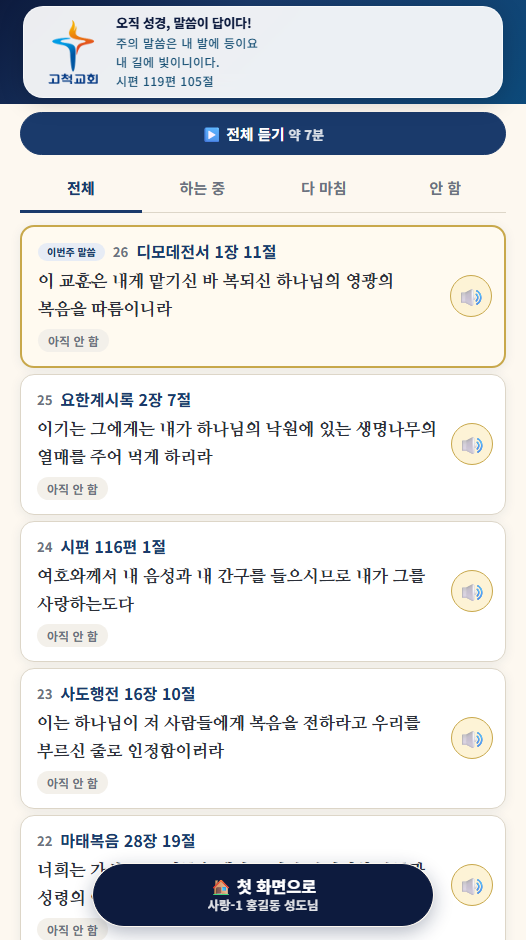
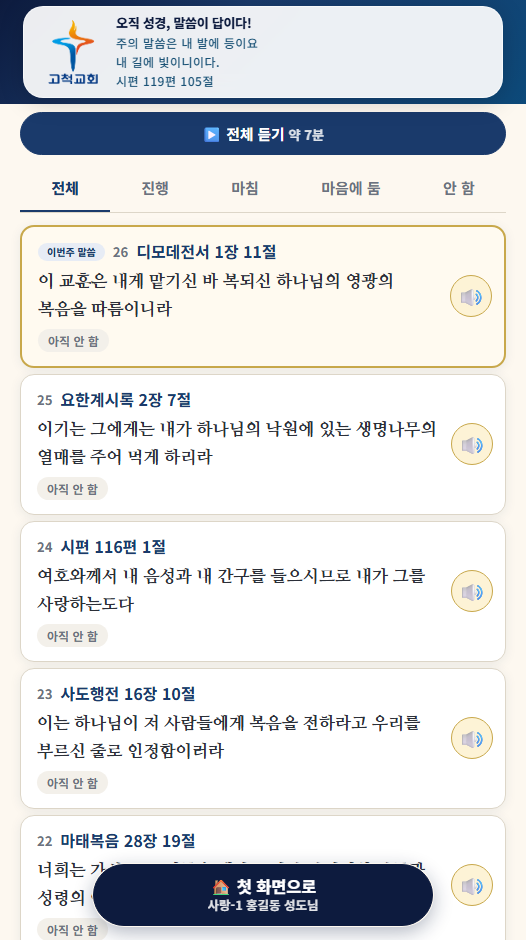
feat(말씀 목록): 거르기 칸을 외우는 걸음 사다리로 — 전체·진행·마침·마음에 둠·안 함 · 마음에 둔 구절은 힌트로 — v3.582
- 칸: 하는 중 → 진행 · 다 마침 → 마침 · 「마음에 둠」 칸을 더함(친구). 한 구절은 한 칸에만 든다 —
  마음에 둔 구절은 「마침」에서 뺀다(예전 첫 화면 네 칸과 같은 나눔). 「마침」이 비었는데 마음에 둔 구절이 있으면
  「마친 말씀은 모두 「마음에 둠」에 있어요」(「아직 없음」과 뭉개지 않는다).
- 마음에 둔 구절은 어느 칸에서나 본문 대신 첫 낱말 힌트(담당자가 넣은 「주의 OOO O」 — 떠올려 보게).
  힌트가 비었거나 영어 모드면 firstCharHint(본문).
- 칸 글은 꺾지 않고 글 길이만큼 나눈다 · 좁은 폰에 큰 글씨면 「마음둠」(아주 크게 ≤400px · 크게 ≤340px —
  칸 사이가 붙어 「마음에 둠 안 함」으로 이어 읽혔다).
- 도움말 · 사용 설명서 목록 사진 · 디자인 개편 문서 함께.
- 폭 320~430 × 글씨 셋 × 개발·운영·영어 × 어두운 모드 카드 2,160장 넘침 0 · 칸 다섯 거르기 맞음 · 힌트는 마음에 둔 구절에만.
- bump 20261012j

diff --git a/app.js b/app.js
@@ -6,7 +6,7 @@
 
 // 이 파일의 빌드 번호 — index.html의 app.js?v= 와 반드시 같아야 한다.
 // (tools/bump.py가 둘을 함께 올린다)
-const APP_BUILD = "20261012i";
+const APP_BUILD = "20261012j";
 
 // 배포 직후 CDN이 아직 옛 app.js를 내보내면, 브라우저는 그 옛 내용을 '새 주소'
 // 아래 캐시해 버린다. 주소가 다시 바뀌기 전까지(최대 10분) 옛 화면이 남는 이유다.
@@ -1968,17 +1968,23 @@ const STATUS_LABEL = {
   3: { cls: "status-done", text: "다 마침" },
 };
 // 말씀 목록 보기 거르기(2026-10-12 · 디자인 시안 B) — 같은 세션 안에서는 화면을 다시 그려도 고른 것이 남는다.
+// 2026-10-12 친구 — 칸은 외우는 걸음을 따라 「진행 → 마침 → 마음에 둠」 사다리로. **한 구절은 한 칸에만** 든다
+//   (예전 첫 화면 네 칸 「마음에 둠 · 암송 · 진행중 · 미시도」와 같은 나눔 — 마음에 둔 구절은 「마침」에서 뺀다).
+//   칸 이름은 짧게 — 큰 글씨·좁은 폰에서 「아직 안 / 함」으로 꺾였다(카드 칩은 「아직 안 함」 · 「1단계 마침」 그대로).
 let verseListFilter = "all";
 const VL_FILTERS = [
   { k: "all", label: "전체" },
-  { k: "doing", label: "하는 중" },     // 1·2단계를 마침
-  { k: "done", label: "다 마침" },      // 3단계까지 마침
-  { k: "none", label: "안 함" },        // 칸 이름은 짧게 — 큰 글씨·좁은 폰에서 「아직 안 / 함」으로 꺾였다(카드 칩은 「아직 안 함」)
+  { k: "doing", label: "진행" },        // 1·2단계를 마침
+  { k: "done", label: "마침" },         // 3단계까지 마침 · 아직 마음에 두지 않음
+  { k: "heart", label: "마음에 둠", short: "마음둠" },   // 「이 말씀을 내 마음에 두었나이다」를 체크함 · 좁은 폰·큰 글씨에선 「마음둠」(style.css .vt-short)
+  { k: "none", label: "안 함" },        // 1단계도 아직
 ];
-function vlKind(stage) { return stage >= 3 ? "done" : stage > 0 ? "doing" : "none"; }
+function vlKind(stage, hearted) { return hearted ? "heart" : stage >= 3 ? "done" : stage > 0 ? "doing" : "none"; }
 const VL_EMPTY = {
-  doing: "지금 하는 중인 말씀이 없어요.",
-  done: "아직 다 마친 말씀이 없어요.<br>한 말씀씩 천천히 외워 보세요.",
+  doing: "지금 진행 중인 말씀이 없어요.",
+  done: "아직 마친 말씀이 없어요.<br>한 말씀씩 천천히 외워 보세요.",
+  doneAllHeart: "마친 말씀은 모두 「마음에 둠」에 있어요 👑",
+  heart: "아직 마음에 둔 말씀이 없어요.<br>3단계 화면의 「이 말씀을 내 마음에 두었나이다」를<br>체크하면 여기에 모여요.",
   none: "모든 말씀을 시작하셨어요 👏",
 };
 
@@ -5445,11 +5451,11 @@ function renderVerseList() {
   const playItems = verseItemsFor(playOrder);
   const playDur = albumDurText(playItems);
 
-  // 보기 거르기 — 전체 · 하는 중 · 다 마침 · 아직 안 함(2026-10-12 · 시안 B).
+  // 보기 거르기 — 전체 · 진행 · 마침 · 마음에 둠 · 안 함(2026-10-12 · 시안 B · VL_FILTERS).
   //   ⚠ 칸에 수를 달지 않는다 — 첫 화면에서 전체 수를 뺀 것(같은 날 친구 ②안)과 같은 까닭이다.
-  //      「아직 안 함 39」는 새로 오신 분께 다시 「아직 한참」으로 읽힌다.
+  //      「안 함 39」는 새로 오신 분께 다시 「아직 한참」으로 읽힌다.
   const tabsHtml = `<div class="vl-tabs" role="tablist" aria-label="말씀 목록 보기">${VL_FILTERS.map((f) =>
-    `<button type="button" role="tab" class="vl-tab${verseListFilter === f.k ? " on" : ""}" data-f="${f.k}" aria-selected="${verseListFilter === f.k}">${f.label}</button>`).join("")}</div>`;
+    `<button type="button" role="tab" class="vl-tab${verseListFilter === f.k ? " on" : ""}" data-f="${f.k}" aria-selected="${verseListFilter === f.k}">${f.short ? `<span class="vt-long">${f.label}</span><span class="vt-short">${f.short}</span>` : f.label}</button>`).join("")}</div>`;
 
   appEl.innerHTML = `
     ${verses.length ? `<div class="rank-filter album-play vl-play">
@@ -5477,8 +5483,12 @@ function renderVerseList() {
   const heartMap = loadHearted();
 
   const shown = [...verses].reverse()
-    .filter((v) => verseListFilter === "all" || vlKind(getPassedStage(v.no)) === verseListFilter);
-  if (!shown.length && verses.length) listEl.innerHTML = `<p class="vl-empty">${VL_EMPTY[verseListFilter] || ""}</p>`;
+    .filter((v) => verseListFilter === "all" || vlKind(getPassedStage(v.no), !!heartMap[v.no]) === verseListFilter);
+  if (!shown.length && verses.length) {
+    // 「마침」이 빈 까닭이 「아직 없음」인지 「모두 마음에 둠으로 옮겨 감」인지 가른다 — 둘을 한 말로 뭉개면 거짓이 된다.
+    const key = verseListFilter === "done" && verses.some((v) => heartMap[v.no] && getPassedStage(v.no) >= 3) ? "doneAllHeart" : verseListFilter;
+    listEl.innerHTML = `<p class="vl-empty">${VL_EMPTY[key] || ""}</p>`;
+  }
 
   shown.forEach((v) => {
     const passed = getPassedStage(v.no);
@@ -5486,13 +5496,18 @@ function renderVerseList() {
     const isWeekly = v.no === weeklyNo;
     const isHeart = !!heartMap[v.no];
     const ref = verseRefFull(v);
+    // 마음에 둔 구절은 본문 대신 첫 낱말 힌트(담당자가 넣은 「주의 OOO O」) — 어느 칸에서나(2026-10-12 친구).
+    //   다 외운 말씀이니 목록에서 떠올려 보게 한다. 힌트가 비었거나 영어 모드면(힌트는 한국어다)
+    //   앨범 「첫 글자만」과 같은 firstCharHint 로 본문에서 만든다.
+    const text = verseText(v) || "";
+    const body = isHeart ? (isEnMode(v) || !v.hintText ? firstCharHint(text) : v.hintText) : text;
 
     const card = document.createElement("div");
     card.className = `verse-card vl-card ${status.cls}${isWeekly ? " weekly-verse" : ""}${isHeart ? " hearted-verse" : ""}`;
     card.dataset.no = v.no;   // 재생 중인 카드를 짚기 위해
     // 시안 B(2026-10-12 친구 결정) — 구절 이름을 풀어 쓰고(「살전 5:16-18」 → 「데살로니가전서 5장 16-18절」)
     //   본문을 두 줄까지 보인다. 새로 오신 분이 「어떤 말씀인지」 바로 알게.
-    //   ⚠ 그래서 담당자가 넣는 「힌트」(주의 OOO O)는 이제 목록에 안 나온다 — 친구가 고른 것이다(본문 전체).
+    //   담당자가 넣는 「힌트」(주의 OOO O)는 마음에 둔 구절에만 본문 대신 나온다(위 body).
     //   ⚠ 전에는 한 줄에 번호·이름(nowrap)·힌트·상태·🔊 를 늘어놓아 좁은 폰·큰 글씨·긴 이름에서 🔊 와 상태가
     //      카드 밖으로 밀려났다. 이제 이름·본문이 줄을 바꾸고 상태는 아래 줄이라 넘치지 않는다.
     //   클래스 이름 .verse-card · .verse-ref · .verse-status[data-no] 는 그대로 — applyVerseCounts(「· N회」)와
@@ -5504,7 +5519,7 @@ function renderVerseList() {
           <span class="vl-no">${v.no}</span>
           <span class="verse-ref">${ref}</span>
         </div>
-        <div class="vl-text">${verseText(v) || ""}</div>
+        <div class="vl-text${isHeart ? " vl-hint" : ""}">${body}</div>
         <div class="vl-state">
           <span class="verse-status ${status.cls}" data-no="${v.no}" data-base="${status.text}">${status.text}</span>
           ${isHeart ? `<span class="heart-ribbon">👑 마음에 둠</span>` : ""}
@@ -8904,7 +8919,7 @@ function renderHelp(onClose) {
 
         <section class="help-section">
           <h3>🏷 내 기록 & 진행 표시</h3>
-          <p>첫 화면 위쪽에 <b>마친 구절 수</b>가 보여요. 말씀 목록 카드에는 <b>아직 안 함 · 1단계 마침 · 2단계 마침 · 다 마침</b>(+ 암송 횟수)이 보여요. 목록 위 <b>전체 · 하는 중 · 다 마침 · 안 함</b>을 누르면 그것만 모아 볼 수 있어요. 3단계를 마친 말씀은 <b>📖 나의 말씀 앨범</b>에 모여요.</p>
+          <p>첫 화면 위쪽에 <b>마친 구절 수</b>가 보여요. 말씀 목록 카드에는 <b>아직 안 함 · 1단계 마침 · 2단계 마침 · 다 마침</b>(+ 암송 횟수)이 보여요. 목록 위 <b>전체 · 진행 · 마침 · 마음에 둠 · 안 함</b>을 누르면 그것만 모아 볼 수 있어요. 마음에 둔 말씀은 본문 대신 <b>첫 낱말 힌트</b>로 보여요 — 떠올려 보세요. 3단계를 마친 말씀은 <b>📖 나의 말씀 앨범</b>에 모여요.</p>
         </section>
 
         <section class="help-section">

diff --git a/style.css b/style.css
@@ -5880,15 +5880,29 @@ body:has(#update-banner) .ps-wrap.ps-home{
    ⚠ 클래스 이름 .verse-card · .verse-ref · .verse-status 는 그대로 쓴다 — app.js 의 applyVerseCounts(「· N회」)와
       albumPlayFocus(재생 중 .playing)가 이 이름으로 카드를 찾는다. 이 덩이는 위쪽 .verse-* · .card-listen 규칙들보다
       뒤에 있어야 한다(같은 특이도를 덮는다). */
+/* 칸 다섯(전체 · 진행 · 마침 · 마음에 둠 · 안 함) — 글 길이가 달라 같은 폭으로 나누지 않고 글만큼 나눈다.
+   ⚠ 칸 글은 꺾지 않는다(nowrap) — 「마음에 / 둠」으로 꺾이면 두 칸처럼 읽힌다. 아주 좁으면 옆으로 민다. */
 .vl-tabs {
-  display: grid; grid-template-columns: repeat(4, minmax(0, 1fr));
+  display: flex; overflow-x: auto; scrollbar-width: none;
   margin: 0 0 12px; border-bottom: 1px solid var(--border);
 }
+.vl-tabs::-webkit-scrollbar { display: none; }
+/* 짧은 이름 — 좁은 폰에 큰 글씨면 칸 사이가 붙어 「마음에 둠 안 함」(= 마음에 안 둠?)으로 이어 읽혔다(2026-10-12).
+   그때만 「마음둠」(친구). 숨긴 쪽(display:none)은 단추 이름(읽어 주기)에서도 빠진다. */
+.vl-tab .vt-short { display: none; }
+@media (max-width: 400px) {
+  html[data-fs="xl"] .vl-tab .vt-long { display: none; }
+  html[data-fs="xl"] .vl-tab .vt-short { display: inline; }
+}
+@media (max-width: 340px) {
+  html[data-fs="lg"] .vl-tab .vt-long { display: none; }
+  html[data-fs="lg"] .vl-tab .vt-short { display: inline; }
+}
 .vl-tab {
-  min-height: 46px; padding: 0 2px; margin-bottom: -1px;
+  flex: 1 0 auto; min-height: 46px; padding: 0 6px; margin-bottom: -1px;
   border: 0; border-bottom: 3px solid transparent; background: none;
   color: var(--gray); font-family: inherit; font-size: 15px; font-weight: 600; line-height: 1.2;
-  word-break: keep-all; cursor: pointer;
+  white-space: nowrap; cursor: pointer;
 }
 .vl-tab.on { color: var(--navy); border-bottom-color: var(--navy); font-weight: 800; }
 .dark .vl-tab.on { color: #cdd9f2; border-bottom-color: #cdd9f2; }
@@ -5919,6 +5933,8 @@ html[data-fs="xl"] .vl-tab { font-size: 19px; }
 .vl-card .card-listen { align-self: center; }
 .vl-empty { text-align: center; color: var(--gray); font-size: 15px; line-height: 1.7; padding: 28px 8px; }
 .dark .vl-text { color: #e6e9ef; }
+/* 마음에 둔 구절의 첫 낱말 힌트(「주의 OOO O」) — 가린 칸(O)이 붙어 보이지 않게 조금 띄운다 */
+.vl-text.vl-hint { letter-spacing: .06em; }
 html[data-fs="lg"] .vl-card .verse-ref { font-size: 18px; }
 html[data-fs="xl"] .vl-card .verse-ref { font-size: 21px; }
 html[data-fs="lg"] .vl-text { font-size: 19px; }

diff --git a/index.html b/index.html
@@ -65,7 +65,7 @@
   <link rel="preconnect" href="https://fonts.gstatic.com" crossorigin />
   <link href="https://fonts.googleapis.com/css2?family=Gowun+Batang:wght@400;700&family=Lora:wght@400;600;700&family=Nanum+Myeongjo:wght@400;700;800&family=Noto+Sans+KR:wght@400;500;700;800&display=swap" rel="stylesheet" media="print" onload="this.media='all'" />
   <noscript><link href="https://fonts.googleapis.com/css2?family=Gowun+Batang:wght@400;700&family=Lora:wght@400;600;700&family=Nanum+Myeongjo:wght@400;700;800&family=Noto+Sans+KR:wght@400;500;700;800&display=swap" rel="stylesheet" /></noscript>
-  <link rel="stylesheet" href="style.css?v=20261012i" />
+  <link rel="stylesheet" href="style.css?v=20261012j" />
 </head>
 <body>
   <!-- 앱 시작 스플래시 화면 -->
@@ -74,7 +74,7 @@
       <img id="splash-logo" src="img/logo-gocheok.png" alt="고척교회" />
       <div class="splash-title">오직 성경, 말씀이 답이다!</div>
       <div class="splash-sub">주의 말씀은 내 발에 등이요<br>내 길에 빛이니이다</div>
-      <div class="splash-ver">v3.581</div>
+      <div class="splash-ver">v3.582</div>
       <img class="splash-denom" src="logo3.png?v=20260702y" alt="대한예수교장로회총회" onerror="this.style.display='none'" />
     </div>
   </div>
@@ -107,11 +107,11 @@
     <p style="text-align:center;padding:40px">불러오는 중...</p>
   </main>
 
-  <script src="js/config.js?v=20261012i"></script>
-  <script src="js/api.js?v=20261012i"></script>
-  <script src="js/push.js?v=20261012i"></script>
-  <script src="js/psalm.js?v=20261012i"></script>
-  <script src="js/events.js?v=20261012i"></script>
-  <script src="app.js?v=20261012i"></script>
+  <script src="js/config.js?v=20261012j"></script>
+  <script src="js/api.js?v=20261012j"></script>
+  <script src="js/push.js?v=20261012j"></script>
+  <script src="js/psalm.js?v=20261012j"></script>
+  <script src="js/events.js?v=20261012j"></script>
+  <script src="app.js?v=20261012j"></script>
 </body>
 </html>

diff --git a/admin.html b/admin.html
@@ -72,7 +72,7 @@
   // 관리 도구 목록 — 앞으로 여기에 한 줄씩 추가하면 됩니다
   const TOOLS = [
     // 성도 정보 관리는 교회 어드민(admin.onlybible.kr 「👤 성도 계정」)으로 옮겼다(2026-10-09) — 여기서 걷었다.
-    { ic:"📖", title:"성경암송 관리", desc:"통계 · 알림발송 · 주간리포트 · 게시판", href:"admin-stats.html?v=20261012i" },
+    { ic:"📖", title:"성경암송 관리", desc:"통계 · 알림발송 · 주간리포트 · 게시판", href:"admin-stats.html?v=20261012j" },
     { ic:"🎉", title:"이벤트 관리", desc:"회차 만들기 · 신청 명단 · 인쇄", href:"admin-event.html" },
     { ic:"🎵", title:"찬양 아카이브 관리", desc:"곡 등록 · 콤보순서 · 조회수 · 사용현황", href:"admin-praise.html" },
     { ic:"⛪", title:"설교·찬양 관리", desc:"설교 올리기(두 단계) · 설교 목록 · 매일 묵상 · 담당자 — 담당자도 이 주소로", href:"admin-sermon.html" },

diff --git a/docs/notes/design-refresh.md b/docs/notes/design-refresh.md
@@ -20,9 +20,10 @@
 ## 시안 전체를 고르기 전에 먼저 앱에 넣은 것 (2026-10-12 친구 결정 · 새로 오신 분 부담 덜기)
 차례(4~7단계)를 건너뛰고 바로 운영에 넣었다 — 새로 오신 분이 힘들어하신다는 것이 까닭이다. **색은 지금 앱 색 그대로**(친구가 「지금 앱 색 유지」를 골랐다).
 - **첫 화면** — 큰 단추 아래 「아직 N구절 남았어요」를 뺐다 · 단추 이름 「말씀 암송하기」 → 「말씀 암송」 · 진행 줄에서 전체 수·%·막대를 뺐다(마친 수만). 상세 `docs/notes/home-screen.md` 끝.
-- **말씀 목록 = 시안 B 구조** — 카드에 풀어 쓴 구절 이름(`verseRefFull` — 「살전 5:16-18」 → 「데살로니가전서 5장 16-18절」)과 **본문 두 줄**(`verseText`, 명조 · 말줄임), 그 아래 상태 칩, 🔊 는 오른쪽. 목록 위 거르기 칸 넷(전체 · 하는 중 · 다 마침 · 안 함 — `verseListFilter`). CSS 는 `style.css` 끝 「말씀 목록 — 시안 B 구조」 덩이.
-  - ⚠ **담당자 힌트(`hintText` · 「주의 OOO O」)는 이제 목록에 안 나온다** — 친구가 「힌트 그대로」·「다 마친 구절만 본문」 대신 「본문 전체」를 골랐다. 힌트 칸을 채우는 담당자 수고가 앱 어디에도 안 쓰이게 됐으니 담당자께 알릴 것. 되살리려면 `.vl-text` 자리에 `v.hintText`.
-  - ⚠ **거르기 칸에 수를 달지 않는다** — 「안 함 39」는 첫 화면에서 전체 수를 뺀 까닭과 같다. 칸 이름도 짧게(「안 함」) — 큰 글씨·320px 에서 「아직 안 / 함」으로 꺾였다. 카드 칩은 「아직 안 함」.
+- **말씀 목록 = 시안 B 구조** — 카드에 풀어 쓴 구절 이름(`verseRefFull` — 「살전 5:16-18」 → 「데살로니가전서 5장 16-18절」)과 **본문 두 줄**(`verseText`, 명조 · 말줄임), 그 아래 상태 칩, 🔊 는 오른쪽. CSS 는 `style.css` 끝 「말씀 목록 — 시안 B 구조」 덩이.
+  - **거르기 칸 다섯 = 외우는 걸음 사다리**(친구 · 같은 날 고침): 전체 · **진행**(1·2단계) · **마침**(3단계 · 마음에 두지 않음) · **마음에 둠** · **안 함**. **한 구절은 한 칸에만** 든다(`vlKind` — 마음에 둔 구절은 「마침」에서 뺀다 · 예전 첫 화면 네 칸과 같은 나눔). 「마침」이 비었는데 마음에 둔 구절이 있으면 「마친 말씀은 모두 「마음에 둠」에 있어요」 — 「아직 없음」과 뭉개지 않는다.
+  - **마음에 둔 구절은 어느 칸에서나 본문 대신 첫 낱말 힌트**(담당자가 넣는 `hintText` · 「주의 OOO O」 — 다 외운 말씀이니 떠올려 보게). 힌트가 비었거나 영어 모드면(힌트는 한국어) `firstCharHint(본문)`. 처음엔 「본문 전체」로 힌트를 아예 안 보였다가 이렇게 되살렸다 — 담당자 힌트 입력은 계속 쓰인다.
+  - ⚠ **거르기 칸에 수를 달지 않는다** — 「안 함 39」는 첫 화면에서 전체 수를 뺀 까닭과 같다. 칸 글은 꺾지 않는다(nowrap · 글 길이만큼 나눔 · 아주 좁으면 옆으로 밀림). **좁은 폰에 큰 글씨면 「마음에 둠」 → 「마음둠」**(아주 크게 ≤400px · 크게 ≤340px — 칸 사이가 붙어 「마음에 둠 안 함」으로 이어 읽혔다 · `.vt-short`). 카드 칩은 「아직 안 함」·「1단계 마침」·「다 마침」 그대로.
   - 이 구조는 옛 한 줄 카드의 넘침(🔊·상태가 카드 밖으로)을 함께 없앴다 — 폭 320~430 × 글씨 셋 × 개발·운영·영어 × 어두운 모드에서 카드 2,160장 넘침 0(2026-10-12 실측).
   - 클래스 이름 `.verse-card`·`.verse-ref`·`.verse-status[data-no]` 는 그대로 — `applyVerseCounts`(「· N회」)·`albumPlayFocus`(.playing) 가 기댄다.
 - **상태 이름** — 미시도 → 아직 안 함 · 1단계 완료 → 1단계 마침 · 2단계 완료 → 2단계 마침 · 완료 → 다 마침(`STATUS_LABEL` — 목록과 첫 화면 「이번주 말씀」 칩이 함께 쓴다 · 도움말도 같은 말).

diff --git a/CLAUDE.md b/CLAUDE.md
@@ -58,7 +58,7 @@
 | 봉사 당번(2026-10-06 운영 · 문 닫힘 — 🧪만) — `duty_signups` 에 직접 쓰지 말 것 | `docs/notes/duty-roster.md` |
 | 관리 기능을 교회 어드민으로 옮기기(2026-10-08 결정) | `docs/notes/admin-migration.md` · `docs/backlog.md` 4-5 |
 | 안드로이드 앱(TWA)·위젯·플레이스토어(새 앱 `kr.onlybible.gocheok`) | `docs/notes/android-app.md` |
-| 디자인 개편(2026-10-12 시작 · 시안 A·B·C 의견 수렴 중 — 고르기 전엔 입히지 말 것) · 「전」 사진 `자료/design/` · **먼저 넣은 것**(10-12 운영): 첫 화면 남은 수·전체 수·% 빼기 · 말씀 목록 시안 B 구조(본문 두 줄 · 거르기 칸 · 힌트 안 보임) · 상태 이름 「아직 안 함 · 1단계 마침 · 다 마침」 | `docs/notes/design-refresh.md` |
+| 디자인 개편(2026-10-12 시작 · 시안 A·B·C 의견 수렴 중 — 고르기 전엔 입히지 말 것) · 「전」 사진 `자료/design/` · **먼저 넣은 것**(10-12 운영): 첫 화면 남은 수·전체 수·% 빼기 · 말씀 목록 시안 B 구조(본문 두 줄 · 거르기 칸 「진행·마침·마음에 둠·안 함」 · 힌트는 마음에 둔 구절에만) · 상태 이름 「아직 안 함 · 1단계 마침 · 다 마침」 | `docs/notes/design-refresh.md` |
 
 ## 폴더 — 참고·산출물은 `자료/` (2026-10-08)
 화면이 안 쓰는 참고·산출물은 모두 `자료/` 아래다 — `marketing`·`ministry`·`store`·`psalm`·`migrate`·`booklet`(GitHub) + `education`·`newfamily`·`AppForm`·`Picture`·`당회보고`(로컬). **`자료/` 는 사이트로 안 나간다.**
